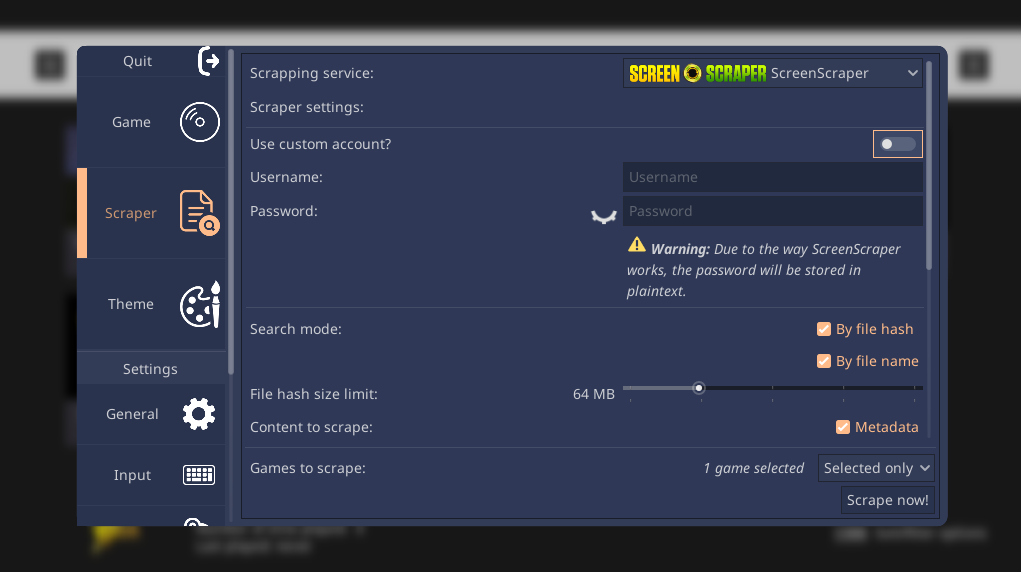
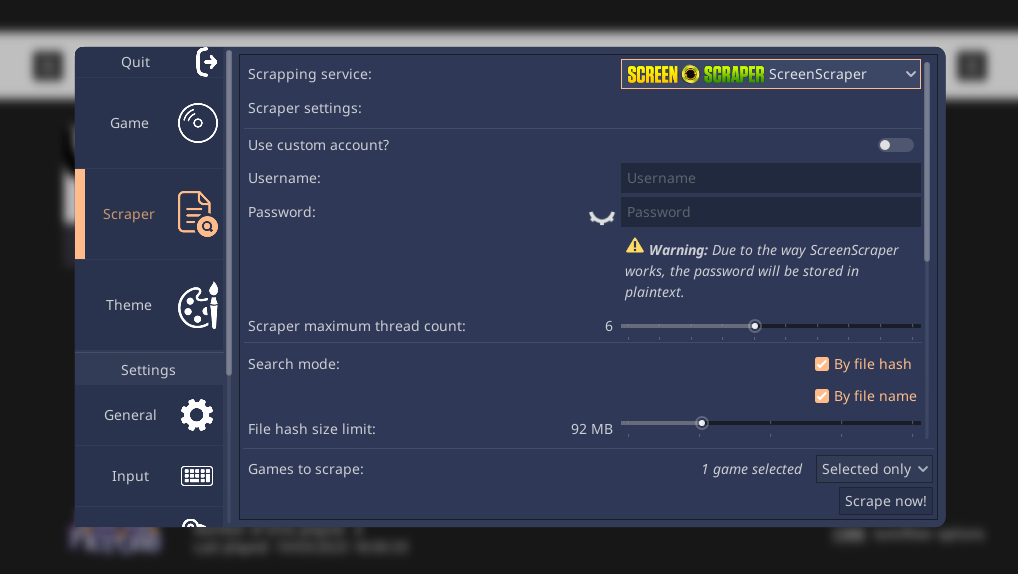
Sync API changes

diff --git a/class_api/data/ConfigData.rst b/class_api/data/ConfigData.rst
@@ -43,6 +43,8 @@ Constants
 	  - :ref:`KEY_SCRAPER_HASH_FILE_SIZE <api_ConfigData_KEY_SCRAPER_HASH_FILE_SIZE>`
 	* - |godot_string|
 	  - :ref:`KEY_SCRAPER_SS_USE_CUSTOM_ACCOUNT <api_ConfigData_KEY_SCRAPER_SS_USE_CUSTOM_ACCOUNT>`
+	* - |godot_int|
+	  - :ref:`KEY_SCRAPER_SS_MAX_THREADS <api_ConfigData_KEY_SCRAPER_SS_MAX_THREADS>`
 	* - |godot_string|
 	  - :ref:`KEY_CUSTOM_INPUT_REMAP <api_ConfigData_KEY_CUSTOM_INPUT_REMAP>`
 	* - |godot_string|
@@ -62,9 +64,13 @@ Constants
 	* - |godot_string|
 	  - :ref:`KEY_VIRTUAL_KEYBOARD_LAYOUT <api_ConfigData_KEY_VIRTUAL_KEYBOARD_LAYOUT>`
 	* - |godot_string|
+	  - :ref:`KEY_VIRTUAL_KEYBOARD_TYPE <api_ConfigData_KEY_VIRTUAL_KEYBOARD_TYPE>`
+	* - |godot_string|
 	  - :ref:`KEY_VIRTUAL_KEYBOARD_SHOW_ON_CONTROLLER <api_ConfigData_KEY_VIRTUAL_KEYBOARD_SHOW_ON_CONTROLLER>`
 	* - |godot_string|
 	  - :ref:`KEY_VIRTUAL_KEYBOARD_SHOW_ON_MOUSE <api_ConfigData_KEY_VIRTUAL_KEYBOARD_SHOW_ON_MOUSE>`
+	* - |godot_bool|
+	  - :ref:`KEY_ACCESSIBILITY_SCREEN_READER_ENABLED <api_ConfigData_KEY_ACCESSIBILITY_SCREEN_READER_ENABLED>`
 
 ----
 
@@ -115,7 +121,6 @@ Key for the :ref:`fullscreen <api_ConfigData_fullscreen>` property.
 Key for the :ref:`vsync <api_ConfigData_vsync>` property.
 
 ----
-
 
 .. _api_ConfigData_KEY_RENDER_RESOLUTION:
 
@@ -173,6 +178,13 @@ Key for the :ref:`scraper_ss_use_custom_account <api_ConfigData_scraper_ss_use_c
 
 ----
 
+.. _api_ConfigData_KEY_SCRAPER_SS_MAX_THREADS:
+
+	|godot_string| **KEY_SCRAPER_SS_MAX_THREADS** = ``"scraper_ss_max_threads"``
+
+Key for the :ref:`scraper_ss_max_threads <api_ConfigData_scraper_ss_max_threads>` property.
+
+----
 
 .. _api_ConfigData_KEY_CUSTOM_INPUT_REMAP:
 
@@ -190,7 +202,6 @@ Key for the :ref:`input_key_map <api_ConfigData_input_key_map>` property.
 
 ----
 
-
 .. _api_ConfigData_KEY_INPUT_CONTROLLER_MAP:
 
 	|godot_string| **KEY_INPUT_CONTROLLER_MAP** = ``"input_controller_map"``
@@ -198,7 +209,6 @@ Key for the :ref:`input_key_map <api_ConfigData_input_key_map>` property.
 Key for the :ref:`input_controller_map <api_ConfigData_input_controller_map>` property.
 
 ----
-
 
 .. _api_ConfigData_KEY_INPUT_CONTROLLER_MAIN_AXIS:
 
@@ -208,7 +218,6 @@ Key for the :ref:`input_controller_main_axis <api_ConfigData_input_controller_ma
 
 ----
 
-
 .. _api_ConfigData_KEY_INPUT_CONTROLLER_SECONDARY_AXIS:
 
 	|godot_string| **KEY_INPUT_CONTROLLER_SECONDARY_AXIS** = ``"input_controller_secondary_axis"``
@@ -216,7 +225,6 @@ Key for the :ref:`input_controller_main_axis <api_ConfigData_input_controller_ma
 Key for the :ref:`input_controller_secondary_axis <api_ConfigData_input_controller_secondary_axis>` property.
 
 ----
-
 
 .. _api_ConfigData_KEY_INPUT_CONTROLLER_ICON_TYPE:
 
@@ -226,7 +234,6 @@ Key for the :ref:`input_controller_icon_type <api_ConfigData_input_controller_ic
 
 ----
 
-
 .. _api_ConfigData_KEY_INPUT_CONTROLLER_ECHO_PRE_DELAY:
 
 	|godot_string| **KEY_INPUT_CONTROLLER_ECHO_PRE_DELAY** = ``"input_controller_echo_pre_delay"``
@@ -234,7 +241,6 @@ Key for the :ref:`input_controller_icon_type <api_ConfigData_input_controller_ic
 Key for the :ref:`input_controller_echo_pre_delay <api_ConfigData_input_controller_echo_pre_delay>` property.
 
 ----
-
 
 .. _api_ConfigData_KEY_INPUT_CONTROLLER_ECHO_DELAY:
 
@@ -244,7 +250,6 @@ Key for the :ref:`input_controller_echo_delay <api_ConfigData_input_controller_e
 
 ----
 
-
 .. _api_ConfigData_KEY_VIRTUAL_KEYBOARD_LAYOUT:
 
 	|godot_string| **KEY_VIRTUAL_KEYBOARD_LAYOUT** = ``"virtual_keyboard_layout"``
@@ -253,6 +258,13 @@ Key for the :ref:`virtual_keyboard_layout <api_ConfigData_virtual_keyboard_layou
 
 ----
 
+.. _api_ConfigData_KEY_VIRTUAL_KEYBOARD_TYPE:
+
+	|godot_string| **KEY_VIRTUAL_KEYBOARD_TYPE** = ``"virtual_keyboard_type"``
+
+Key for the :ref:`virtual_keyboard_type <api_ConfigData_virtual_keyboard_type>` property.
+
+----
 
 .. _api_ConfigData_KEY_VIRTUAL_KEYBOARD_SHOW_ON_CONTROLLER:
 
@@ -262,13 +274,19 @@ Key for the :ref:`virtual_keyboard_show_on_controller <api_ConfigData_virtual_ke
 
 ----
 
-
 .. _api_ConfigData_KEY_VIRTUAL_KEYBOARD_SHOW_ON_MOUSE:
 
 	|godot_string| **KEY_VIRTUAL_KEYBOARD_SHOW_ON_MOUSE** = ``"virtual_keyboard_show_on_mouse"``
 
 Key for the :ref:`virtual_keyboard_show_on_mouse <api_ConfigData_virtual_keyboard_show_on_mouse>` property.
 
+----
+
+.. _api_ConfigData_KEY_ACCESSIBILITY_SCREEN_READER_ENABLED:
+
+	|godot_string| **KEY_ACCESSIBILITY_SCREEN_READER_ENABLED** = ``"accessibility_screen_reader_enabled"``
+
+Key for the :ref:`accessibility_screen_reader_enabled <api_ConfigData_accessibility_screen_reader_enabled>` property.
 
 Properties
 ----------
@@ -283,13 +301,13 @@ Properties
 	* - |godot_bool|
 	  - :ref:`is_first_time <api_ConfigData_is_first_time>`
 	  - ``true``
-	* - |godot_String|
+	* - |godot_string|
 	  - :ref:`games_dir <api_ConfigData_games_dir>`
 	  - :ref:`FileUtils.get_home_dir() <api_FileUtils_get_home_dir>` + ``"/ROMS"``
-	* - |godot_String|
+	* - |godot_string|
 	  - :ref:`current_theme <api_ConfigData_current_theme>`
 	  - ``"default"``
-	* - |godot_String|
+	* - |godot_string|
 	  - :ref:`lang <api_ConfigData_lang>`
 	  - ``"en"``
 	* - |godot_bool|
@@ -301,13 +319,13 @@ Properties
 	* - |godot_int|
 	  - :ref:`render_resolution <api_ConfigData_render_resolution>`
 	  - ``100``
-	* - |godot_String|
+	* - |godot_string|
 	  - :ref:`region <api_ConfigData_region>`
 	  - ``"usa"``
-	* - |godot_String|
+	* - |godot_string|
 	  - :ref:`rating_system <api_ConfigData_rating_system>`
 	  - ``"esrb"``
-	* - |godot_String|
+	* - |godot_string|
 	  - :ref:`date_format <api_ConfigData_date_format>`
 	  - ``"mm/dd/yyyy"``
 	* - |godot_dictionary|
@@ -319,7 +337,10 @@ Properties
 	* - |godot_bool|
 	  - :ref:`scraper_ss_use_custom_account <api_ConfigData_scraper_ss_use_custom_account>`
 	  - ``false``
-	* - |godot_String|
+	* - |godot_int|
+	  - :ref:`scraper_ss_max_threads <api_ConfigData_scraper_ss_max_threads>`
+	  - ``6``
+	* - |godot_string|
 	  - :ref:`custom_input_remap <api_ConfigData_custom_input_remap>`
 	  - ``""``
 	* - |godot_dictionary|
@@ -343,14 +364,20 @@ Properties
 	* - |godot_float|
 	  - :ref:`input_controller_echo_delay <api_ConfigData_input_controller_echo_delay>`
 	  - ``0.15``
-	* - |godot_String|
+	* - |godot_string|
 	  - :ref:`virtual_keyboard_layout <api_ConfigData_virtual_keyboard_layout>`
 	  - ``"qwerty"``
+	* - |godot_string|
+	  - :ref:`virtual_keyboard_type <api_ConfigData_virtual_keyboard_type>`
+	  - ``"builtin"``
 	* - |godot_bool|
 	  - :ref:`virtual_keyboard_show_on_controller <api_ConfigData_virtual_keyboard_show_on_controller>`
 	  - ``true``
 	* - |godot_bool|
 	  - :ref:`virtual_keyboard_show_on_mouse <api_ConfigData_virtual_keyboard_show_on_mouse>`
+	  - ``false``
+	* - |godot_bool|
+	  - :ref:`accessibility_screen_reader_enabled <api_ConfigData_accessibility_screen_reader_enabled>`
 	  - ``false``
 
 ----
@@ -365,7 +392,7 @@ If ``true``, this is the first time the user is running RetroHub, therefore the 
 
 .. _api_ConfigData_games_dir:
 
-	|godot_String| **games_dir** = :ref:`FileUtils.get_home_dir() <api_FileUtils_get_home_dir>` + ``"/ROMS"``
+	|godot_string| **games_dir** = :ref:`FileUtils.get_home_dir() <api_FileUtils_get_home_dir>` + ``"/ROMS"``
 
 The user's game library. This is the directory where RetroHub will look for games.
 
@@ -373,7 +400,7 @@ The user's game library. This is the directory where RetroHub will look for game
 
 .. _api_ConfigData_current_theme:
 
-	|godot_String| **current_theme** = ``"default"``
+	|godot_string| **current_theme** = ``"default"``
 
 The currently loaded theme. If lacking any extension, it will load a default theme at ``res://default_themes/{current_theme}.pck``. Otherwise, the theme is loaded from ``<retrohub_config_dir>/themes/{current_theme}.``
 
@@ -381,7 +408,7 @@ The currently loaded theme. If lacking any extension, it will load a default the
 
 .. _api_ConfigData_lang:
 
-	|godot_String| **lang** = ``"en"``
+	|godot_string| **lang** = ``"en"``
 
 Language. Used throughout the UI and for themes that support localization as well.
 
@@ -416,7 +443,7 @@ Theme render resolution, in percentage. Doesn't affect RetroHub's UI. Can range 
 
 .. _api_ConfigData_region:
 
-	|godot_String| **region** = ``"usa"``
+	|godot_string| **region** = ``"usa"``
 
 User's preferred region.
 
@@ -429,7 +456,7 @@ Valid values:
 
 .. _api_ConfigData_rating_system:
 
-	|godot_String| **rating_system** = ``"esrb"``
+	|godot_string| **rating_system** = ``"esrb"``
 
 User's preferred age rating system.
 
@@ -442,7 +469,7 @@ Valid values:
 
 .. _api_ConfigData_date_format:
 
-	|godot_String| **date_format** = ``"mm/dd/yyyy"``
+	|godot_string| **date_format** = ``"mm/dd/yyyy"``
 
 User's preferred date formatting.
 
@@ -477,9 +504,20 @@ If ``true``, uses a user's account details when using ScreenScraper. Used to byp
 
 ----
 
+.. _api_ConfigData_scraper_ss_max_threads:
+
+	|godot_int| **scraper_ss_max_threads** = ``6``
+
+Maximum amount of threads to use when scraping with ScreenScraper with a custom account. Set this to limit thread usage to a specific number.
+
+.. note::
+	RetroHub will always check how many threads your account has available. If this value is bigger than your allowed thread count, RetroHub will respect your account's thread limit.
+
+----
+
 .. _api_ConfigData_custom_input_remap:
 
-	|godot_String| **custom_input_remap** = ``""``
+	|godot_string| **custom_input_remap** = ``""``
 
 Custom controller layout string. This follows the SDL format. See :ref:`userguide_input_controller_layouts` for more information.
 
@@ -566,7 +604,7 @@ Delay in seconds between controller echo events. This dictactes the frequency of
 
 .. _api_ConfigData_virtual_keyboard_layout:
 
-	|godot_String| **virtual_keyboard_layout** = ``"qwerty"``
+	|godot_string| **virtual_keyboard_layout** = ``"qwerty"``
 
 Preferred virtual keyboard layout.
 
@@ -574,6 +612,18 @@ Valid values:
 	* ``"qwerty"``: QWERTY
 	* ``"qwertz"``: QWERTZ
 	* ``"azerty"``: AZERTY
+
+----
+
+.. _api_ConfigData_virtual_keyboard_type:
+
+	|godot_string| **virtual_keyboard_type** = ``"builtin"``
+
+What virtual keyboard to use.
+
+Valid values:
+	* ``"builtin"``: App built-in virtual keyboard
+	* ``"steam"``: Steam/Steam Deck virtual keyboard
 
 ----
 
@@ -591,3 +641,10 @@ If ``true``, shows the virtual keyboard when a controller is connected and a giv
 
 If ``true``, shows the virtual keyboard when a mouse click or touch event is done on a valid node.
 
+----
+
+.. _api_ConfigData_accessibility_screen_reader_enabled:
+
+	|godot_bool| **accessibility_screen_reader_enabled** = ``false``
+
+If ``true``, enables screen reader support.

diff --git a/class_api/utils/FileUtils.rst b/class_api/utils/FileUtils.rst
@@ -46,6 +46,8 @@ Methods
 	  - :ref:`get_os_id <api_FileUtils_get_os_id>`
 	* - |godot_string|
 	  - :ref:`get_os_string <api_FileUtils_get_os_string>`
+	* - |godot_bool|
+	  - :ref:`is_steam_deck <api_FileUtils_is_steam_deck>`
 
 ----
 
@@ -132,3 +134,11 @@ Returns the current operating system as an :ref:`OS_ID <api_FileUtils_OS_ID>`.
 	|godot_string| **get_os_string** ()
 
 Returns the current operating system as a string. Possible values are ``"windows"``, ``"macos"``, ``"linux"``, and ``"null"``.
+
+----
+
+.. _api_FileUtils_is_steam_deck:
+
+	|godot_bool| **is_steam_deck** ()
+
+Returns ``true`` if the current system is a Steam Deck.

diff --git a/user_guide/scraping/index.rst b/user_guide/scraping/index.rst
@@ -70,6 +70,13 @@ To circumvent this, you should make a free account on theit website at `https://
 
 This will scrape with your personal quota instead. If that runs out as well, you'll have to wait until the next day/hour to scrape again.
 
+Thread usage
+^^^^^^^^^^^^
+
+By default, RetroHub will scrape with 2 threads. If your custom account has access to more threads, RetroHub will use all of them. To limit how many threads are used, you can set it in the **Scraper** settings:
+
+.. image:: assets/scraper_ss_threads.png
+
 Search Support
 --------------
 

diff --git a/user_guide/setup/01-install.rst b/user_guide/setup/01-install.rst
@@ -1,7 +1,7 @@
 Download
 ========
 
-RetroHub can be downloaded from `GitHub releases <https://github.com/retrohub-org/retrohub/releases>`_. The current latest release is `v0.1.1-beta <https://github.com/retrohub-org/retrohub/releases/tag/v0.1.1-beta>`_.
+RetroHub can be downloaded from `GitHub releases <https://github.com/retrohub-org/retrohub/releases>`_. The current latest release is `v0.1.2-beta <https://github.com/retrohub-org/retrohub/releases/tag/v0.1.2-beta>`_.
 
 RetroHub is available for **Windows**, **macOS** and **Linux**.
 
